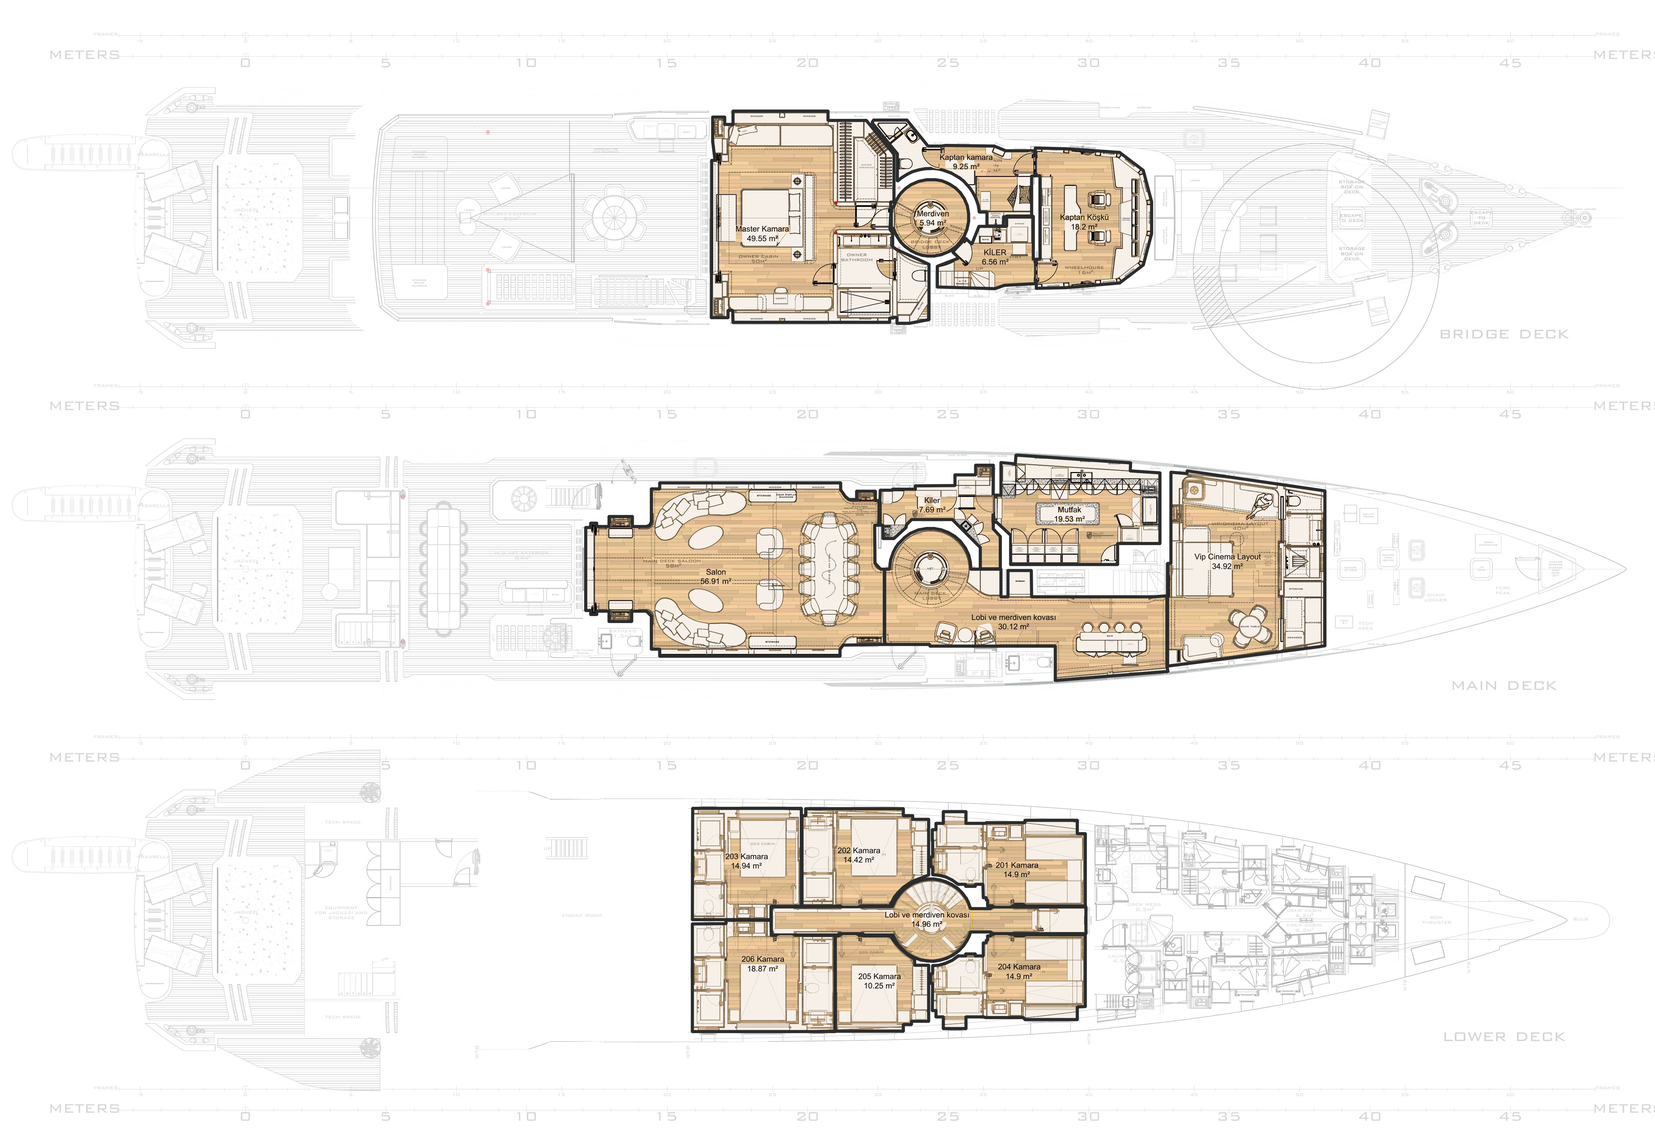
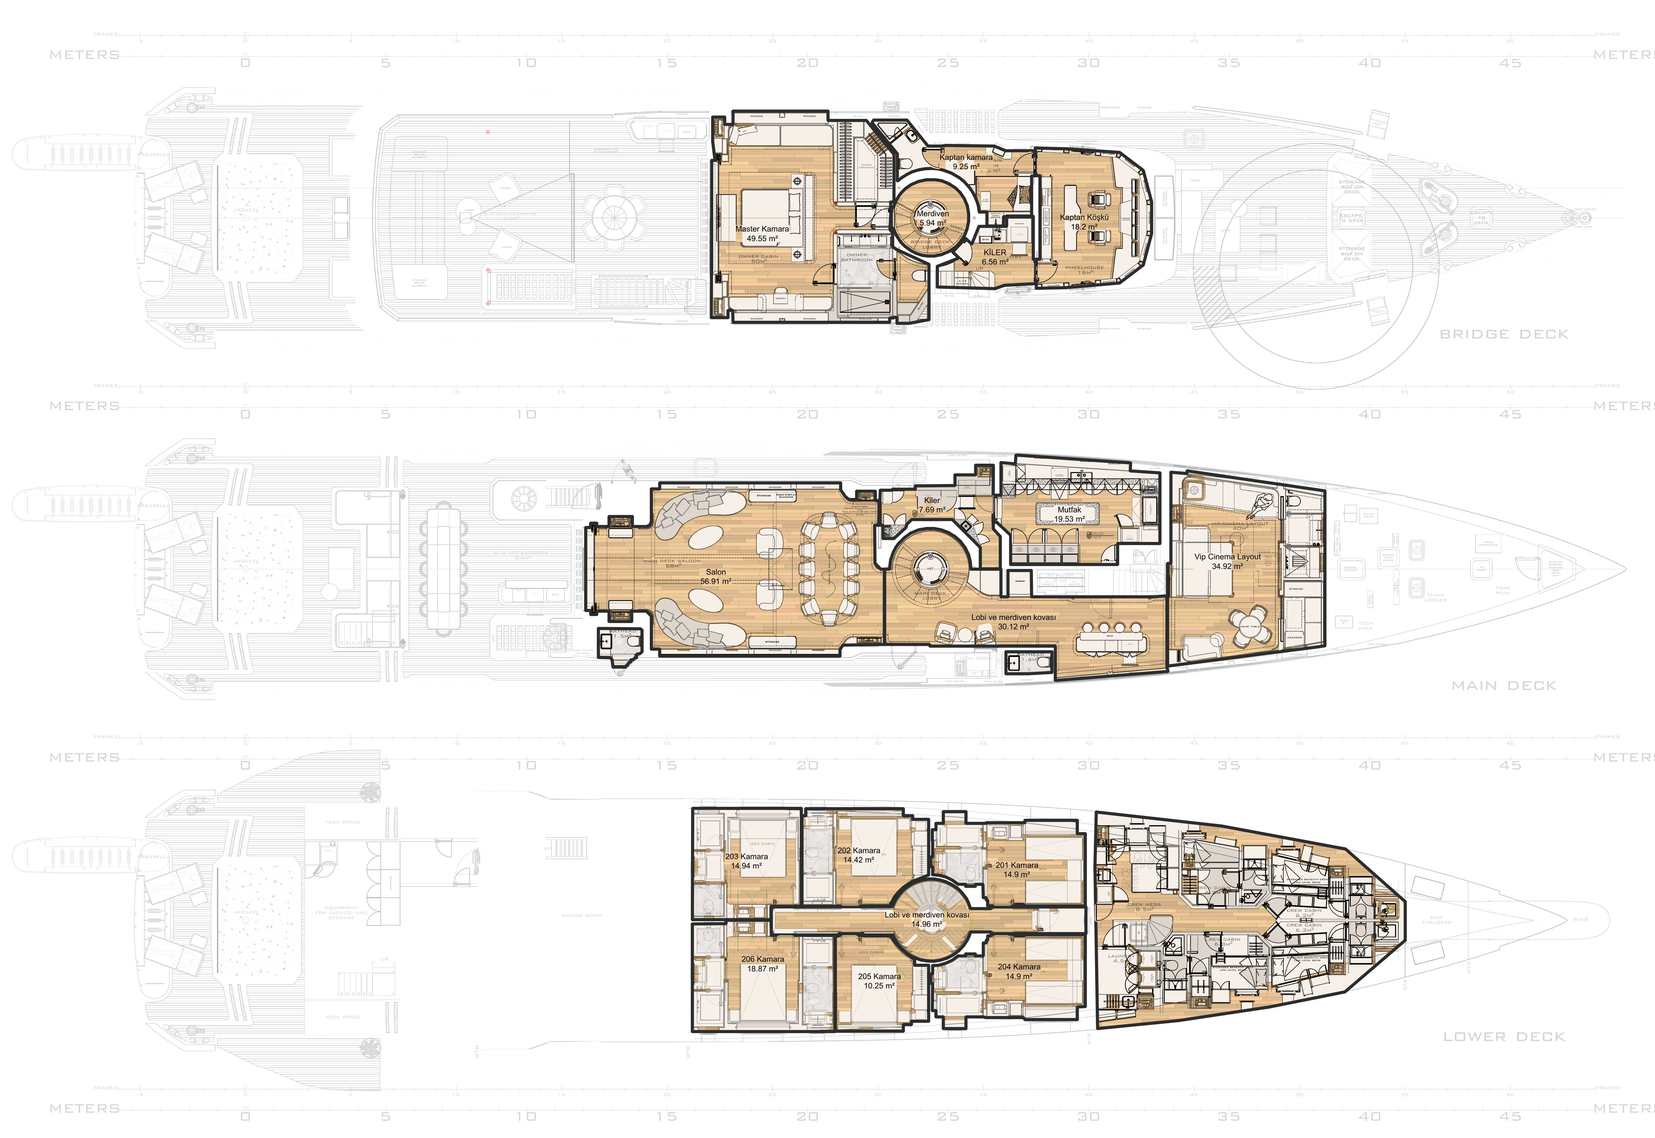
NB97 planı: mürettebat alanı ve dayhead'ler eklendi, banyolar mermer (yazı etiketlerinden), mobilya içi boşluklar dolduruldu
Claude-Session: https://claude.ai/code/session_01GcpQwwjkwsqn74N4oC7deU

diff --git a/index.html b/index.html
@@ -1488,7 +1488,7 @@ function noteEdit(n,isNew){const o=$('#nte');$('#ntx').value=n.t;o.style.display
   else{n.t=t;n.ts=new Date().toISOString();fin()}}}
 
 /* ---- ana menü: tersane seçimi → tekne yerleşim planı ---- */
-const TYD=[{ad:'ICE68',tersane:'ICE',tasarim:'SINOT',plan:'data/ice68-plan.jpg',foto:'data/ice68-tekne.jpg',kabinler:[{"ad": "Tekne Sahibi Kamara", "alan": [0.6559, 0.3778, 0.0796, 0.2401], "isler": [{"kod": "68-107", "ad": "Tekne Sahibi Kamara Alabanda İmalatı", "grup": "Alabanda", "tip": "alabanda"}, {"kod": "68-108", "ad": "Tekne Sahibi Kamara Duvar Paneli İmalatı", "grup": "Duvar Paneli", "tip": "duvar"}, {"kod": "68-109", "ad": "Tekne Sahibi Kamara Yatak İmalatı", "grup": "Yatak", "tip": "yatak", "glb": "models/68-109.glb", "swood": "data/68-109.xml"}, {"kod": "68-110", "ad": "Tekne Sahibi Kamara Komodin İmalatı", "grup": "Seyyar Mobilyalar", "tip": "komodin"}, {"kod": "68-111", "ad": "Tekne Sahibi Kamara Kayar Kapı İmalatı", "grup": "Kapı", "tip": "kapi"}]}]},{ad:'NB97',tersane:'BILGIN',plan:'data/plan-nb97.jpg',kabinler:[{"ad":"Master Kamara","alan":[0.4298,0.0978,0.1315,0.1864],"poly":[[0.4307,0.1029],[0.4307,0.1244],[0.432,0.1409],[0.43,0.1411],[0.4298,0.2792],[0.4399,0.2792],[0.4399,0.2731],[0.4402,0.2726],[0.4424,0.2726],[0.4427,0.2731],[0.443,0.2833],[0.5375,0.2833],[0.5375,0.2798],[0.5378,0.2794],[0.5398,0.2794],[0.54,0.2788],[0.5418,0.2788],[0.542,0.2791],[0.542,0.2842],[0.5494,0.2842],[0.5613,0.2808],[0.5613,0.2323],[0.5415,0.2192],[0.5393,0.2167],[0.5393,0.2049],[0.5379,0.2021],[0.5378,0.2009],[0.5383,0.1841],[0.5382,0.1777],[0.5402,0.1775],[0.5402,0.1358],[0.5235,0.106],[0.5006,0.106],[0.5004,0.1057],[0.5004,0.0978],[0.443,0.0978],[0.443,0.1092],[0.4428,0.1095],[0.4379,0.1095],[0.4378,0.1029]],"isler":[]},{"ad":"Kaptan Kamara","alan":[0.5271,0.1055,0.0982,0.0932],"poly":[[0.5278,0.1055],[0.5271,0.1074],[0.5271,0.1083],[0.5422,0.1351],[0.5422,0.1588],[0.5426,0.1588],[0.5449,0.1562],[0.5481,0.1532],[0.5513,0.151],[0.5555,0.1491],[0.5591,0.1483],[0.5639,0.1481],[0.5673,0.1487],[0.5704,0.1497],[0.5748,0.1521],[0.5796,0.1562],[0.5822,0.1592],[0.5858,0.1649],[0.5879,0.1695],[0.5898,0.1747],[0.5911,0.1804],[0.5918,0.1863],[0.5961,0.1863],[0.5963,0.1866],[0.5963,0.1987],[0.6063,0.1987],[0.6064,0.1905],[0.608,0.1905],[0.6082,0.19],[0.6234,0.19],[0.6234,0.1547],[0.6253,0.1545],[0.6253,0.1329],[0.6233,0.1326],[0.6076,0.1326],[0.6008,0.1283],[0.5714,0.1279],[0.5687,0.1283],[0.5608,0.1283],[0.5481,0.1055]],"isler":[]},{"ad":"Kaptan Köşkü","alan":[0.6256,0.1301,0.0703,0.1234],"poly":[[0.6256,0.1301],[0.6256,0.1545],[0.6282,0.1545],[0.6284,0.1548],[0.6284,0.2277],[0.6261,0.2279],[0.6261,0.2535],[0.644,0.2529],[0.6765,0.2488],[0.6908,0.2328],[0.6959,0.2055],[0.6959,0.1772],[0.6907,0.1499],[0.6765,0.1341],[0.6439,0.1308]],"isler":[]},{"ad":"Merdiven","alan":[0.5386,0.1579,0.0467,0.0672],"poly":[[0.56,0.1579],[0.555,0.1594],[0.5505,0.1623],[0.547,0.166],[0.5446,0.1693],[0.5432,0.172],[0.541,0.1777],[0.54,0.1821],[0.5398,0.1824],[0.5386,0.1822],[0.5386,0.2005],[0.5397,0.2006],[0.5415,0.2069],[0.5442,0.2126],[0.5469,0.2164],[0.5505,0.2203],[0.5536,0.2226],[0.5573,0.2244],[0.5605,0.2251],[0.5646,0.2251],[0.5688,0.2239],[0.5736,0.221],[0.5774,0.2172],[0.5801,0.2131],[0.5826,0.2075],[0.5842,0.2017],[0.5852,0.1945],[0.5853,0.1878],[0.5844,0.1809],[0.5826,0.1746],[0.5802,0.1695],[0.5774,0.1654],[0.574,0.162],[0.572,0.1605],[0.5689,0.1589],[0.5651,0.1579]],"isler":[]},{"ad":"Kiler (Köprü Güverte)","alan":[0.5663,0.1903,0.0595,0.0633],"poly":[[0.6244,0.1903],[0.6236,0.1903],[0.6234,0.1908],[0.6083,0.1908],[0.6083,0.1987],[0.6081,0.199],[0.5915,0.199],[0.5872,0.2143],[0.5868,0.2143],[0.5837,0.2099],[0.5833,0.2099],[0.5759,0.2211],[0.5759,0.2219],[0.579,0.2263],[0.5789,0.227],[0.5663,0.2342],[0.5663,0.2522],[0.6011,0.2536],[0.6068,0.2507],[0.6258,0.2494],[0.6258,0.2279],[0.6244,0.2277]],"isler":[]},{"ad":"Salon","alan":[0.354,0.4244,0.1803,0.1522],"poly":[[0.354,0.4635],[0.354,0.5364],[0.3567,0.5364],[0.3569,0.5367],[0.3569,0.54],[0.3605,0.54],[0.3605,0.5374],[0.3607,0.5371],[0.3678,0.5371],[0.3681,0.5375],[0.3681,0.546],[0.3818,0.546],[0.3818,0.5374],[0.382,0.5371],[0.3905,0.5371],[0.3935,0.5415],[0.3935,0.5703],[0.3985,0.5703],[0.3987,0.5706],[0.3987,0.5766],[0.5075,0.5766],[0.5075,0.5706],[0.5094,0.5668],[0.5343,0.5664],[0.5343,0.5002],[0.5321,0.5002],[0.5286,0.495],[0.5285,0.4619],[0.5287,0.4616],[0.5309,0.4616],[0.5312,0.4512],[0.5311,0.4399],[0.529,0.4399],[0.5288,0.4396],[0.5288,0.4317],[0.5177,0.4317],[0.5177,0.4388],[0.5175,0.439],[0.5129,0.439],[0.5108,0.4363],[0.508,0.4304],[0.508,0.4244],[0.3987,0.4244],[0.3987,0.4294],[0.3985,0.4297],[0.3935,0.4297],[0.3935,0.4587],[0.3925,0.4616],[0.3907,0.4628],[0.3822,0.4628],[0.3821,0.4538],[0.3681,0.4538],[0.3681,0.4625],[0.3679,0.4628],[0.3606,0.4628],[0.3605,0.4598],[0.357,0.4598],[0.3568,0.4635]],"isler":[]},{"ad":"Lobi ve merdiven kovası (Ana Güverte)","alan":[0.5346,0.4644,0.171,0.1336],"poly":[[0.5346,0.5002],[0.5346,0.5664],[0.5616,0.5664],[0.5619,0.5668],[0.5619,0.5677],[0.6373,0.5677],[0.6376,0.5681],[0.6376,0.598],[0.7056,0.5901],[0.7051,0.5857],[0.7051,0.5235],[0.6969,0.5245],[0.6234,0.5245],[0.6232,0.5014],[0.6091,0.5014],[0.6091,0.5244],[0.6049,0.5245],[0.6048,0.5002],[0.5867,0.5001],[0.5863,0.4936],[0.5852,0.4876],[0.5832,0.4815],[0.5802,0.4756],[0.577,0.4714],[0.573,0.4679],[0.5688,0.4655],[0.5645,0.4644],[0.5599,0.4644],[0.5551,0.4657],[0.5503,0.4686],[0.5466,0.4723],[0.5427,0.478],[0.5413,0.4809],[0.5397,0.4853],[0.5382,0.4919],[0.5377,0.4963],[0.5376,0.4999],[0.5371,0.5002]],"isler":[]},{"ad":"Kiler (Ana Güverte)","alan":[0.5315,0.4089,0.0729,0.0909],"poly":[[0.6001,0.4089],[0.5894,0.4089],[0.5894,0.4169],[0.5892,0.4172],[0.577,0.4172],[0.577,0.4263],[0.5768,0.4266],[0.553,0.4269],[0.553,0.4298],[0.5393,0.4298],[0.5391,0.4309],[0.5319,0.4309],[0.5315,0.4453],[0.5316,0.4616],[0.5332,0.4616],[0.5335,0.462],[0.5335,0.4731],[0.5401,0.4731],[0.5475,0.4636],[0.5479,0.461],[0.5509,0.4565],[0.5754,0.4565],[0.5923,0.481],[0.5923,0.4998],[0.6044,0.4998],[0.6044,0.4715],[0.6001,0.4647],[0.6001,0.4592],[0.5999,0.4589]],"isler":[]},{"ad":"Mutfak","alan":[0.6004,0.4001,0.1004,0.0959],"poly":[[0.6049,0.4064],[0.6049,0.4351],[0.6004,0.4352],[0.6004,0.4588],[0.6021,0.4588],[0.6106,0.4704],[0.6106,0.496],[0.6753,0.496],[0.6753,0.4778],[0.6755,0.4775],[0.7008,0.4775],[0.7008,0.4155],[0.683,0.4137],[0.6831,0.4068],[0.6153,0.4001],[0.6138,0.4001],[0.6135,0.4076]],"isler":[]},{"ad":"Vip Cinema Layout","alan":[0.7054,0.4139,0.0952,0.1715],"poly":[[0.7074,0.4149],[0.7074,0.495],[0.7054,0.4951],[0.7054,0.5854],[0.7967,0.5684],[0.8006,0.5674],[0.8006,0.4314],[0.7173,0.4139],[0.7171,0.4162]],"isler":[]},{"ad":"201 Kamara","alan":[0.5623,0.7132,0.0934,0.0828],"poly":[[0.5633,0.7291],[0.5633,0.7386],[0.5636,0.7389],[0.5636,0.7527],[0.5634,0.753],[0.5623,0.753],[0.5623,0.7615],[0.5634,0.7615],[0.5636,0.7617],[0.5636,0.7685],[0.5676,0.7691],[0.5715,0.7707],[0.5757,0.7736],[0.5788,0.777],[0.5833,0.777],[0.5835,0.7773],[0.5835,0.7789],[0.5892,0.7789],[0.5892,0.7774],[0.5895,0.777],[0.5938,0.777],[0.594,0.7773],[0.5941,0.7887],[0.5958,0.7887],[0.596,0.789],[0.596,0.7909],[0.5967,0.7912],[0.5967,0.796],[0.6133,0.796],[0.6135,0.7947],[0.6185,0.7947],[0.6188,0.7951],[0.6188,0.796],[0.6557,0.796],[0.6557,0.7325],[0.6512,0.7325],[0.651,0.7322],[0.651,0.7209],[0.6193,0.7209],[0.6193,0.7225],[0.6191,0.7228],[0.596,0.7228],[0.5958,0.7234],[0.5839,0.7234],[0.5837,0.7231],[0.5837,0.7132],[0.57,0.7132],[0.57,0.7233],[0.5698,0.7235],[0.5655,0.7235],[0.5655,0.7288],[0.5653,0.7291]],"isler":[]},{"ad":"202 Kamara","alan":[0.4845,0.7105,0.0766,0.0859],"poly":[[0.4845,0.7167],[0.4845,0.7964],[0.5379,0.7961],[0.5379,0.7948],[0.5406,0.7879],[0.5425,0.7844],[0.5459,0.7797],[0.5494,0.7761],[0.552,0.774],[0.5611,0.7688],[0.5611,0.7199],[0.5515,0.7199],[0.5514,0.7168],[0.5459,0.7168],[0.5458,0.7107],[0.4868,0.7105],[0.4868,0.7164],[0.4866,0.7167]],"isler":[]},{"ad":"203 Kamara","alan":[0.4183,0.7104,0.0659,0.0977],"poly":[[0.4185,0.7104],[0.4183,0.8081],[0.4659,0.8081],[0.4659,0.7966],[0.4661,0.7963],[0.4842,0.7963],[0.4842,0.7104]],"isler":[]},{"ad":"204 Kamara","alan":[0.5623,0.8209,0.0934,0.0829],"poly":[[0.5636,0.8485],[0.5636,0.8553],[0.5632,0.8557],[0.5623,0.8557],[0.5623,0.864],[0.5633,0.864],[0.5636,0.8645],[0.5633,0.888],[0.5653,0.888],[0.5655,0.8883],[0.5655,0.8936],[0.5698,0.8936],[0.57,0.8939],[0.57,0.9038],[0.5836,0.9038],[0.5837,0.8938],[0.5839,0.8935],[0.5941,0.8935],[0.5956,0.8942],[0.6182,0.8942],[0.6192,0.8959],[0.6509,0.8959],[0.6509,0.885],[0.6511,0.8847],[0.6557,0.8845],[0.6557,0.8212],[0.6188,0.8212],[0.6186,0.8223],[0.6135,0.8223],[0.6133,0.8209],[0.5988,0.8209],[0.5986,0.8223],[0.5967,0.8223],[0.5967,0.826],[0.596,0.8263],[0.596,0.828],[0.5954,0.8285],[0.5941,0.8285],[0.5941,0.8397],[0.5939,0.84],[0.5893,0.84],[0.5892,0.8383],[0.5835,0.8383],[0.5834,0.84],[0.5789,0.84],[0.5754,0.8437],[0.5713,0.8465],[0.5672,0.8481]],"isler":[]},{"ad":"205 Kamara","alan":[0.5048,0.8217,0.0564,0.0845],"poly":[[0.5048,0.8223],[0.5048,0.9062],[0.5458,0.9062],[0.5458,0.9005],[0.546,0.9002],[0.5507,0.9002],[0.5508,0.8973],[0.5612,0.8973],[0.5612,0.8482],[0.5529,0.8482],[0.5527,0.8479],[0.5527,0.8428],[0.5485,0.8389],[0.5451,0.8348],[0.5412,0.8289],[0.538,0.8223],[0.5216,0.8223],[0.5214,0.8217],[0.5069,0.8217],[0.5067,0.8223]],"isler":[]},{"ad":"206 Kamara","alan":[0.4183,0.8086,0.0862,0.0977],"poly":[[0.4183,0.8118],[0.4183,0.9063],[0.5045,0.9063],[0.5045,0.8217],[0.466,0.8217],[0.4659,0.8086],[0.4387,0.8086],[0.4387,0.8114],[0.4385,0.8116]],"isler":[]},{"ad":"Lobi ve merdiven kovası (Alt Güverte)","alan":[0.4661,0.7724,0.1901,0.0722],"poly":[[0.4661,0.797],[0.4661,0.8215],[0.5066,0.8215],[0.5069,0.8204],[0.5214,0.8204],[0.5216,0.8215],[0.5395,0.8215],[0.5408,0.8257],[0.5424,0.8295],[0.5439,0.8323],[0.5475,0.8371],[0.5495,0.8392],[0.5525,0.8415],[0.5562,0.8434],[0.5601,0.8444],[0.5642,0.8446],[0.5679,0.8438],[0.5719,0.8421],[0.5761,0.839],[0.5795,0.8352],[0.5822,0.831],[0.5843,0.8264],[0.5855,0.8229],[0.5865,0.8188],[0.5986,0.8188],[0.5988,0.8203],[0.6562,0.8203],[0.6562,0.7969],[0.5988,0.7969],[0.5986,0.7983],[0.5866,0.7983],[0.5863,0.7979],[0.5851,0.7929],[0.5838,0.7894],[0.5812,0.7843],[0.5786,0.7806],[0.5753,0.7773],[0.5714,0.7746],[0.568,0.7732],[0.5644,0.7724],[0.561,0.7724],[0.5569,0.7733],[0.5527,0.7754],[0.5498,0.7776],[0.5465,0.7811],[0.5433,0.7857],[0.5408,0.7913],[0.5392,0.7966]],"isler":[]}]},{ad:'NB98',tersane:'BILGIN',plan:'data/plan-nb98.jpg'}];
+const TYD=[{ad:'ICE68',tersane:'ICE',tasarim:'SINOT',plan:'data/ice68-plan.jpg',foto:'data/ice68-tekne.jpg',kabinler:[{"ad": "Tekne Sahibi Kamara", "alan": [0.6559, 0.3778, 0.0796, 0.2401], "isler": [{"kod": "68-107", "ad": "Tekne Sahibi Kamara Alabanda İmalatı", "grup": "Alabanda", "tip": "alabanda"}, {"kod": "68-108", "ad": "Tekne Sahibi Kamara Duvar Paneli İmalatı", "grup": "Duvar Paneli", "tip": "duvar"}, {"kod": "68-109", "ad": "Tekne Sahibi Kamara Yatak İmalatı", "grup": "Yatak", "tip": "yatak", "glb": "models/68-109.glb", "swood": "data/68-109.xml"}, {"kod": "68-110", "ad": "Tekne Sahibi Kamara Komodin İmalatı", "grup": "Seyyar Mobilyalar", "tip": "komodin"}, {"kod": "68-111", "ad": "Tekne Sahibi Kamara Kayar Kapı İmalatı", "grup": "Kapı", "tip": "kapi"}]}]},{ad:'NB97',tersane:'BILGIN',plan:'data/plan-nb97.jpg',kabinler:[{"ad":"Master Kamara","alan":[0.4298,0.0978,0.1315,0.1864],"poly":[[0.4307,0.1029],[0.4307,0.1244],[0.432,0.1409],[0.43,0.1411],[0.4298,0.2792],[0.4399,0.2792],[0.4399,0.2731],[0.4402,0.2726],[0.4424,0.2726],[0.4427,0.2731],[0.443,0.2833],[0.5375,0.2833],[0.5375,0.2798],[0.5378,0.2794],[0.5398,0.2794],[0.54,0.2788],[0.5418,0.2788],[0.542,0.2791],[0.542,0.2842],[0.5494,0.2842],[0.5613,0.2808],[0.5613,0.2323],[0.5415,0.2192],[0.5393,0.2167],[0.5393,0.2049],[0.5379,0.2021],[0.5378,0.2009],[0.5383,0.1841],[0.5382,0.1777],[0.5402,0.1775],[0.5402,0.1358],[0.5235,0.106],[0.5006,0.106],[0.5004,0.1057],[0.5004,0.0978],[0.443,0.0978],[0.443,0.1092],[0.4428,0.1095],[0.4379,0.1095],[0.4378,0.1029]],"isler":[]},{"ad":"Kaptan Kamara","alan":[0.5271,0.1055,0.0982,0.0932],"poly":[[0.5278,0.1055],[0.5271,0.1074],[0.5271,0.1083],[0.5422,0.1351],[0.5422,0.1588],[0.5426,0.1588],[0.5449,0.1562],[0.5481,0.1532],[0.5513,0.151],[0.5555,0.1491],[0.5591,0.1483],[0.5639,0.1481],[0.5673,0.1487],[0.5704,0.1497],[0.5748,0.1521],[0.5796,0.1562],[0.5822,0.1592],[0.5858,0.1649],[0.5879,0.1695],[0.5898,0.1747],[0.5911,0.1804],[0.5918,0.1863],[0.5961,0.1863],[0.5963,0.1866],[0.5963,0.1987],[0.6063,0.1987],[0.6064,0.1905],[0.608,0.1905],[0.6082,0.19],[0.6234,0.19],[0.6234,0.1547],[0.6253,0.1545],[0.6253,0.1329],[0.6233,0.1326],[0.6076,0.1326],[0.6008,0.1283],[0.5714,0.1279],[0.5687,0.1283],[0.5608,0.1283],[0.5481,0.1055]],"isler":[]},{"ad":"Kaptan Köşkü","alan":[0.6256,0.1301,0.0703,0.1234],"poly":[[0.6256,0.1301],[0.6256,0.1545],[0.6282,0.1545],[0.6284,0.1548],[0.6284,0.2277],[0.6261,0.2279],[0.6261,0.2535],[0.644,0.2529],[0.6765,0.2488],[0.6908,0.2328],[0.6959,0.2055],[0.6959,0.1772],[0.6907,0.1499],[0.6765,0.1341],[0.6439,0.1308]],"isler":[]},{"ad":"Merdiven","alan":[0.5386,0.1579,0.0467,0.0672],"poly":[[0.56,0.1579],[0.555,0.1594],[0.5505,0.1623],[0.547,0.166],[0.5446,0.1693],[0.5432,0.172],[0.541,0.1777],[0.54,0.1821],[0.5398,0.1824],[0.5386,0.1822],[0.5386,0.2005],[0.5397,0.2006],[0.5415,0.2069],[0.5442,0.2126],[0.5469,0.2164],[0.5505,0.2203],[0.5536,0.2226],[0.5573,0.2244],[0.5605,0.2251],[0.5646,0.2251],[0.5688,0.2239],[0.5736,0.221],[0.5774,0.2172],[0.5801,0.2131],[0.5826,0.2075],[0.5842,0.2017],[0.5852,0.1945],[0.5853,0.1878],[0.5844,0.1809],[0.5826,0.1746],[0.5802,0.1695],[0.5774,0.1654],[0.574,0.162],[0.572,0.1605],[0.5689,0.1589],[0.5651,0.1579]],"isler":[]},{"ad":"Kiler (Köprü Güverte)","alan":[0.5663,0.1903,0.0595,0.0633],"poly":[[0.6244,0.1903],[0.6236,0.1903],[0.6234,0.1908],[0.6083,0.1908],[0.6083,0.1987],[0.6081,0.199],[0.5915,0.199],[0.5872,0.2143],[0.5868,0.2143],[0.5837,0.2099],[0.5833,0.2099],[0.5759,0.2211],[0.5759,0.2219],[0.579,0.2263],[0.5789,0.227],[0.5663,0.2342],[0.5663,0.2522],[0.6011,0.2536],[0.6068,0.2507],[0.6258,0.2494],[0.6258,0.2279],[0.6244,0.2277]],"isler":[]},{"ad":"Salon","alan":[0.354,0.4244,0.1803,0.1522],"poly":[[0.354,0.4635],[0.354,0.5364],[0.3567,0.5364],[0.3569,0.5367],[0.3569,0.54],[0.3605,0.54],[0.3605,0.5374],[0.3607,0.5371],[0.3678,0.5371],[0.3681,0.5375],[0.3681,0.546],[0.3818,0.546],[0.3818,0.5374],[0.382,0.5371],[0.3905,0.5371],[0.3935,0.5415],[0.3935,0.5703],[0.3985,0.5703],[0.3987,0.5706],[0.3987,0.5766],[0.5075,0.5766],[0.5075,0.5706],[0.5094,0.5668],[0.5343,0.5664],[0.5343,0.5002],[0.5321,0.5002],[0.5286,0.495],[0.5285,0.4619],[0.5287,0.4616],[0.5309,0.4616],[0.5312,0.4512],[0.5311,0.4399],[0.529,0.4399],[0.5288,0.4396],[0.5288,0.4317],[0.5177,0.4317],[0.5177,0.4388],[0.5175,0.439],[0.5129,0.439],[0.5108,0.4363],[0.508,0.4304],[0.508,0.4244],[0.3987,0.4244],[0.3987,0.4294],[0.3985,0.4297],[0.3935,0.4297],[0.3935,0.4587],[0.3925,0.4616],[0.3907,0.4628],[0.3822,0.4628],[0.3821,0.4538],[0.3681,0.4538],[0.3681,0.4625],[0.3679,0.4628],[0.3606,0.4628],[0.3605,0.4598],[0.357,0.4598],[0.3568,0.4635]],"isler":[]},{"ad":"Lobi ve merdiven kovası (Ana Güverte)","alan":[0.5346,0.4644,0.171,0.1336],"poly":[[0.5346,0.5002],[0.5346,0.5664],[0.5616,0.5664],[0.5619,0.5668],[0.5619,0.5677],[0.6373,0.5677],[0.6376,0.5681],[0.6376,0.598],[0.7056,0.5901],[0.7051,0.5857],[0.7051,0.5235],[0.6969,0.5245],[0.6234,0.5245],[0.6232,0.5014],[0.6091,0.5014],[0.6091,0.5244],[0.6049,0.5245],[0.6048,0.5002],[0.5867,0.5001],[0.5863,0.4936],[0.5852,0.4876],[0.5832,0.4815],[0.5802,0.4756],[0.577,0.4714],[0.573,0.4679],[0.5688,0.4655],[0.5645,0.4644],[0.5599,0.4644],[0.5551,0.4657],[0.5503,0.4686],[0.5466,0.4723],[0.5427,0.478],[0.5413,0.4809],[0.5397,0.4853],[0.5382,0.4919],[0.5377,0.4963],[0.5376,0.4999],[0.5371,0.5002]],"isler":[]},{"ad":"Kiler (Ana Güverte)","alan":[0.5315,0.4089,0.0729,0.0909],"poly":[[0.6001,0.4089],[0.5894,0.4089],[0.5894,0.4169],[0.5892,0.4172],[0.577,0.4172],[0.577,0.4263],[0.5768,0.4266],[0.553,0.4269],[0.553,0.4298],[0.5393,0.4298],[0.5391,0.4309],[0.5319,0.4309],[0.5315,0.4453],[0.5316,0.4616],[0.5332,0.4616],[0.5335,0.462],[0.5335,0.4731],[0.5401,0.4731],[0.5475,0.4636],[0.5479,0.461],[0.5509,0.4565],[0.5754,0.4565],[0.5923,0.481],[0.5923,0.4998],[0.6044,0.4998],[0.6044,0.4715],[0.6001,0.4647],[0.6001,0.4592],[0.5999,0.4589]],"isler":[]},{"ad":"Mutfak","alan":[0.6004,0.4001,0.1004,0.0959],"poly":[[0.6049,0.4064],[0.6049,0.4351],[0.6004,0.4352],[0.6004,0.4588],[0.6021,0.4588],[0.6106,0.4704],[0.6106,0.496],[0.6753,0.496],[0.6753,0.4778],[0.6755,0.4775],[0.7008,0.4775],[0.7008,0.4155],[0.683,0.4137],[0.6831,0.4068],[0.6153,0.4001],[0.6138,0.4001],[0.6135,0.4076]],"isler":[]},{"ad":"Vip Cinema Layout","alan":[0.7054,0.4139,0.0952,0.1715],"poly":[[0.7074,0.4149],[0.7074,0.495],[0.7054,0.4951],[0.7054,0.5854],[0.7967,0.5684],[0.8006,0.5674],[0.8006,0.4314],[0.7173,0.4139],[0.7171,0.4162]],"isler":[]},{"ad":"Dayhead (Salon yanı)","alan":[0.3615,0.5521,0.0263,0.034],"poly":[[0.3615,0.5521],[0.3615,0.5776],[0.3691,0.5779],[0.3697,0.5796],[0.3703,0.5861],[0.3778,0.5861],[0.3784,0.5846],[0.3792,0.5843],[0.3796,0.5826],[0.381,0.5814],[0.3814,0.5796],[0.3824,0.5796],[0.3836,0.5779],[0.3844,0.5779],[0.3848,0.5746],[0.3864,0.5744],[0.3878,0.5726],[0.3878,0.5536],[0.3868,0.5524]],"isler":[]},{"ad":"Dayhead (Lobi yanı)","alan":[0.6077,0.5726,0.0278,0.0193],"poly":[[0.6077,0.5726],[0.6077,0.5919],[0.621,0.5919],[0.6355,0.5907],[0.6355,0.5726]],"isler":[]},{"ad":"201 Kamara","alan":[0.5623,0.7132,0.0934,0.0828],"poly":[[0.5633,0.7291],[0.5633,0.7386],[0.5636,0.7389],[0.5636,0.7527],[0.5634,0.753],[0.5623,0.753],[0.5623,0.7615],[0.5634,0.7615],[0.5636,0.7617],[0.5636,0.7685],[0.5676,0.7691],[0.5715,0.7707],[0.5757,0.7736],[0.5788,0.777],[0.5833,0.777],[0.5835,0.7773],[0.5835,0.7789],[0.5892,0.7789],[0.5892,0.7774],[0.5895,0.777],[0.5938,0.777],[0.594,0.7773],[0.5941,0.7887],[0.5958,0.7887],[0.596,0.789],[0.596,0.7909],[0.5967,0.7912],[0.5967,0.796],[0.6133,0.796],[0.6135,0.7947],[0.6185,0.7947],[0.6188,0.7951],[0.6188,0.796],[0.6557,0.796],[0.6557,0.7325],[0.6512,0.7325],[0.651,0.7322],[0.651,0.7209],[0.6193,0.7209],[0.6193,0.7225],[0.6191,0.7228],[0.596,0.7228],[0.5958,0.7234],[0.5839,0.7234],[0.5837,0.7231],[0.5837,0.7132],[0.57,0.7132],[0.57,0.7233],[0.5698,0.7235],[0.5655,0.7235],[0.5655,0.7288],[0.5653,0.7291]],"isler":[]},{"ad":"202 Kamara","alan":[0.4845,0.7105,0.0766,0.0859],"poly":[[0.4845,0.7167],[0.4845,0.7964],[0.5379,0.7961],[0.5379,0.7948],[0.5406,0.7879],[0.5425,0.7844],[0.5459,0.7797],[0.5494,0.7761],[0.552,0.774],[0.5611,0.7688],[0.5611,0.7199],[0.5515,0.7199],[0.5514,0.7168],[0.5459,0.7168],[0.5458,0.7107],[0.4868,0.7105],[0.4868,0.7164],[0.4866,0.7167]],"isler":[]},{"ad":"203 Kamara","alan":[0.4183,0.7104,0.0659,0.0977],"poly":[[0.4185,0.7104],[0.4183,0.8081],[0.4659,0.8081],[0.4659,0.7966],[0.4661,0.7963],[0.4842,0.7963],[0.4842,0.7104]],"isler":[]},{"ad":"204 Kamara","alan":[0.5623,0.8209,0.0934,0.0829],"poly":[[0.5636,0.8485],[0.5636,0.8553],[0.5632,0.8557],[0.5623,0.8557],[0.5623,0.864],[0.5633,0.864],[0.5636,0.8645],[0.5633,0.888],[0.5653,0.888],[0.5655,0.8883],[0.5655,0.8936],[0.5698,0.8936],[0.57,0.8939],[0.57,0.9038],[0.5836,0.9038],[0.5837,0.8938],[0.5839,0.8935],[0.5941,0.8935],[0.5956,0.8942],[0.6182,0.8942],[0.6192,0.8959],[0.6509,0.8959],[0.6509,0.885],[0.6511,0.8847],[0.6557,0.8845],[0.6557,0.8212],[0.6188,0.8212],[0.6186,0.8223],[0.6135,0.8223],[0.6133,0.8209],[0.5988,0.8209],[0.5986,0.8223],[0.5967,0.8223],[0.5967,0.826],[0.596,0.8263],[0.596,0.828],[0.5954,0.8285],[0.5941,0.8285],[0.5941,0.8397],[0.5939,0.84],[0.5893,0.84],[0.5892,0.8383],[0.5835,0.8383],[0.5834,0.84],[0.5789,0.84],[0.5754,0.8437],[0.5713,0.8465],[0.5672,0.8481]],"isler":[]},{"ad":"205 Kamara","alan":[0.5048,0.8217,0.0564,0.0845],"poly":[[0.5048,0.8223],[0.5048,0.9062],[0.5458,0.9062],[0.5458,0.9005],[0.546,0.9002],[0.5507,0.9002],[0.5508,0.8973],[0.5612,0.8973],[0.5612,0.8482],[0.5529,0.8482],[0.5527,0.8479],[0.5527,0.8428],[0.5485,0.8389],[0.5451,0.8348],[0.5412,0.8289],[0.538,0.8223],[0.5216,0.8223],[0.5214,0.8217],[0.5069,0.8217],[0.5067,0.8223]],"isler":[]},{"ad":"206 Kamara","alan":[0.4183,0.8086,0.0862,0.0977],"poly":[[0.4183,0.8118],[0.4183,0.9063],[0.5045,0.9063],[0.5045,0.8217],[0.466,0.8217],[0.4659,0.8086],[0.4387,0.8086],[0.4387,0.8114],[0.4385,0.8116]],"isler":[]},{"ad":"Lobi ve merdiven kovası (Alt Güverte)","alan":[0.4661,0.7724,0.1901,0.0722],"poly":[[0.4661,0.797],[0.4661,0.8215],[0.5066,0.8215],[0.5069,0.8204],[0.5214,0.8204],[0.5216,0.8215],[0.5395,0.8215],[0.5408,0.8257],[0.5424,0.8295],[0.5439,0.8323],[0.5475,0.8371],[0.5495,0.8392],[0.5525,0.8415],[0.5562,0.8434],[0.5601,0.8444],[0.5642,0.8446],[0.5679,0.8438],[0.5719,0.8421],[0.5761,0.839],[0.5795,0.8352],[0.5822,0.831],[0.5843,0.8264],[0.5855,0.8229],[0.5865,0.8188],[0.5986,0.8188],[0.5988,0.8203],[0.6562,0.8203],[0.6562,0.7969],[0.5988,0.7969],[0.5986,0.7983],[0.5866,0.7983],[0.5863,0.7979],[0.5851,0.7929],[0.5838,0.7894],[0.5812,0.7843],[0.5786,0.7806],[0.5753,0.7773],[0.5714,0.7746],[0.568,0.7732],[0.5644,0.7724],[0.561,0.7724],[0.5569,0.7733],[0.5527,0.7754],[0.5498,0.7776],[0.5465,0.7811],[0.5433,0.7857],[0.5408,0.7913],[0.5392,0.7966]],"isler":[]},{"ad":"Mürettebat Alanı","alan":[0.6615,0.7134,0.1875,0.1903],"poly":[[0.6623,0.7134],[0.738,0.7257],[0.8129,0.7459],[0.849,0.7922],[0.849,0.8261],[0.8125,0.8715],[0.7672,0.8847],[0.712,0.8967],[0.6631,0.9037],[0.6615,0.7611]],"isler":[]}]},{ad:'NB98',tersane:'BILGIN',plan:'data/plan-nb98.jpg'}];
 const IEM={g(){try{return JSON.parse(localStorage.getItem('kmdIsEmri')||'{}')}catch{return{}}},s(v){try{localStorage.setItem('kmdIsEmri',JSON.stringify(v))}catch{}}};
 const iemMerge=(tek,K0)=>{const ex=IEM.g()[tek]||[];if(!ex.length)return K0;const K=(K0||[]).map(k=>({...k,isler:k.isler.slice()}));ex.forEach(e=>{let k=K.find(q=>nrm(q.ad)==nrm(e.kabin));if(!k){k={ad:e.kabin,isler:[]};K.push(k)}if(!k.isler.some(x=>x.kod==e.kod))k.isler.push({kod:e.kod,ad:e.ad,grup:e.grup||'',tip:e.tip||''})});return K};
 const TYS=()=>((data.tersaneler&&data.tersaneler.every(t=>t.tersane))?data.tersaneler:TYD).map(t=>{const d=TYD.find(x=>x.ad==t.ad)||{};return{...t,plan:d.plan||t.plan,foto:d.foto||t.foto,kabinler:ielMerge(t.ad,iemMerge(t.ad,t.kabinler||d.kabinler))}}).concat(TKN.g().filter(e=>!(((data.tersaneler&&data.tersaneler.every(t=>t.tersane))?data.tersaneler:TYD).some(t=>t.ad==e.ad))).map(e=>({ad:e.ad,tersane:e.tersane||'',plan:'',foto:'',kabinler:ielMerge(e.ad,iemMerge(e.ad,[]))})));
